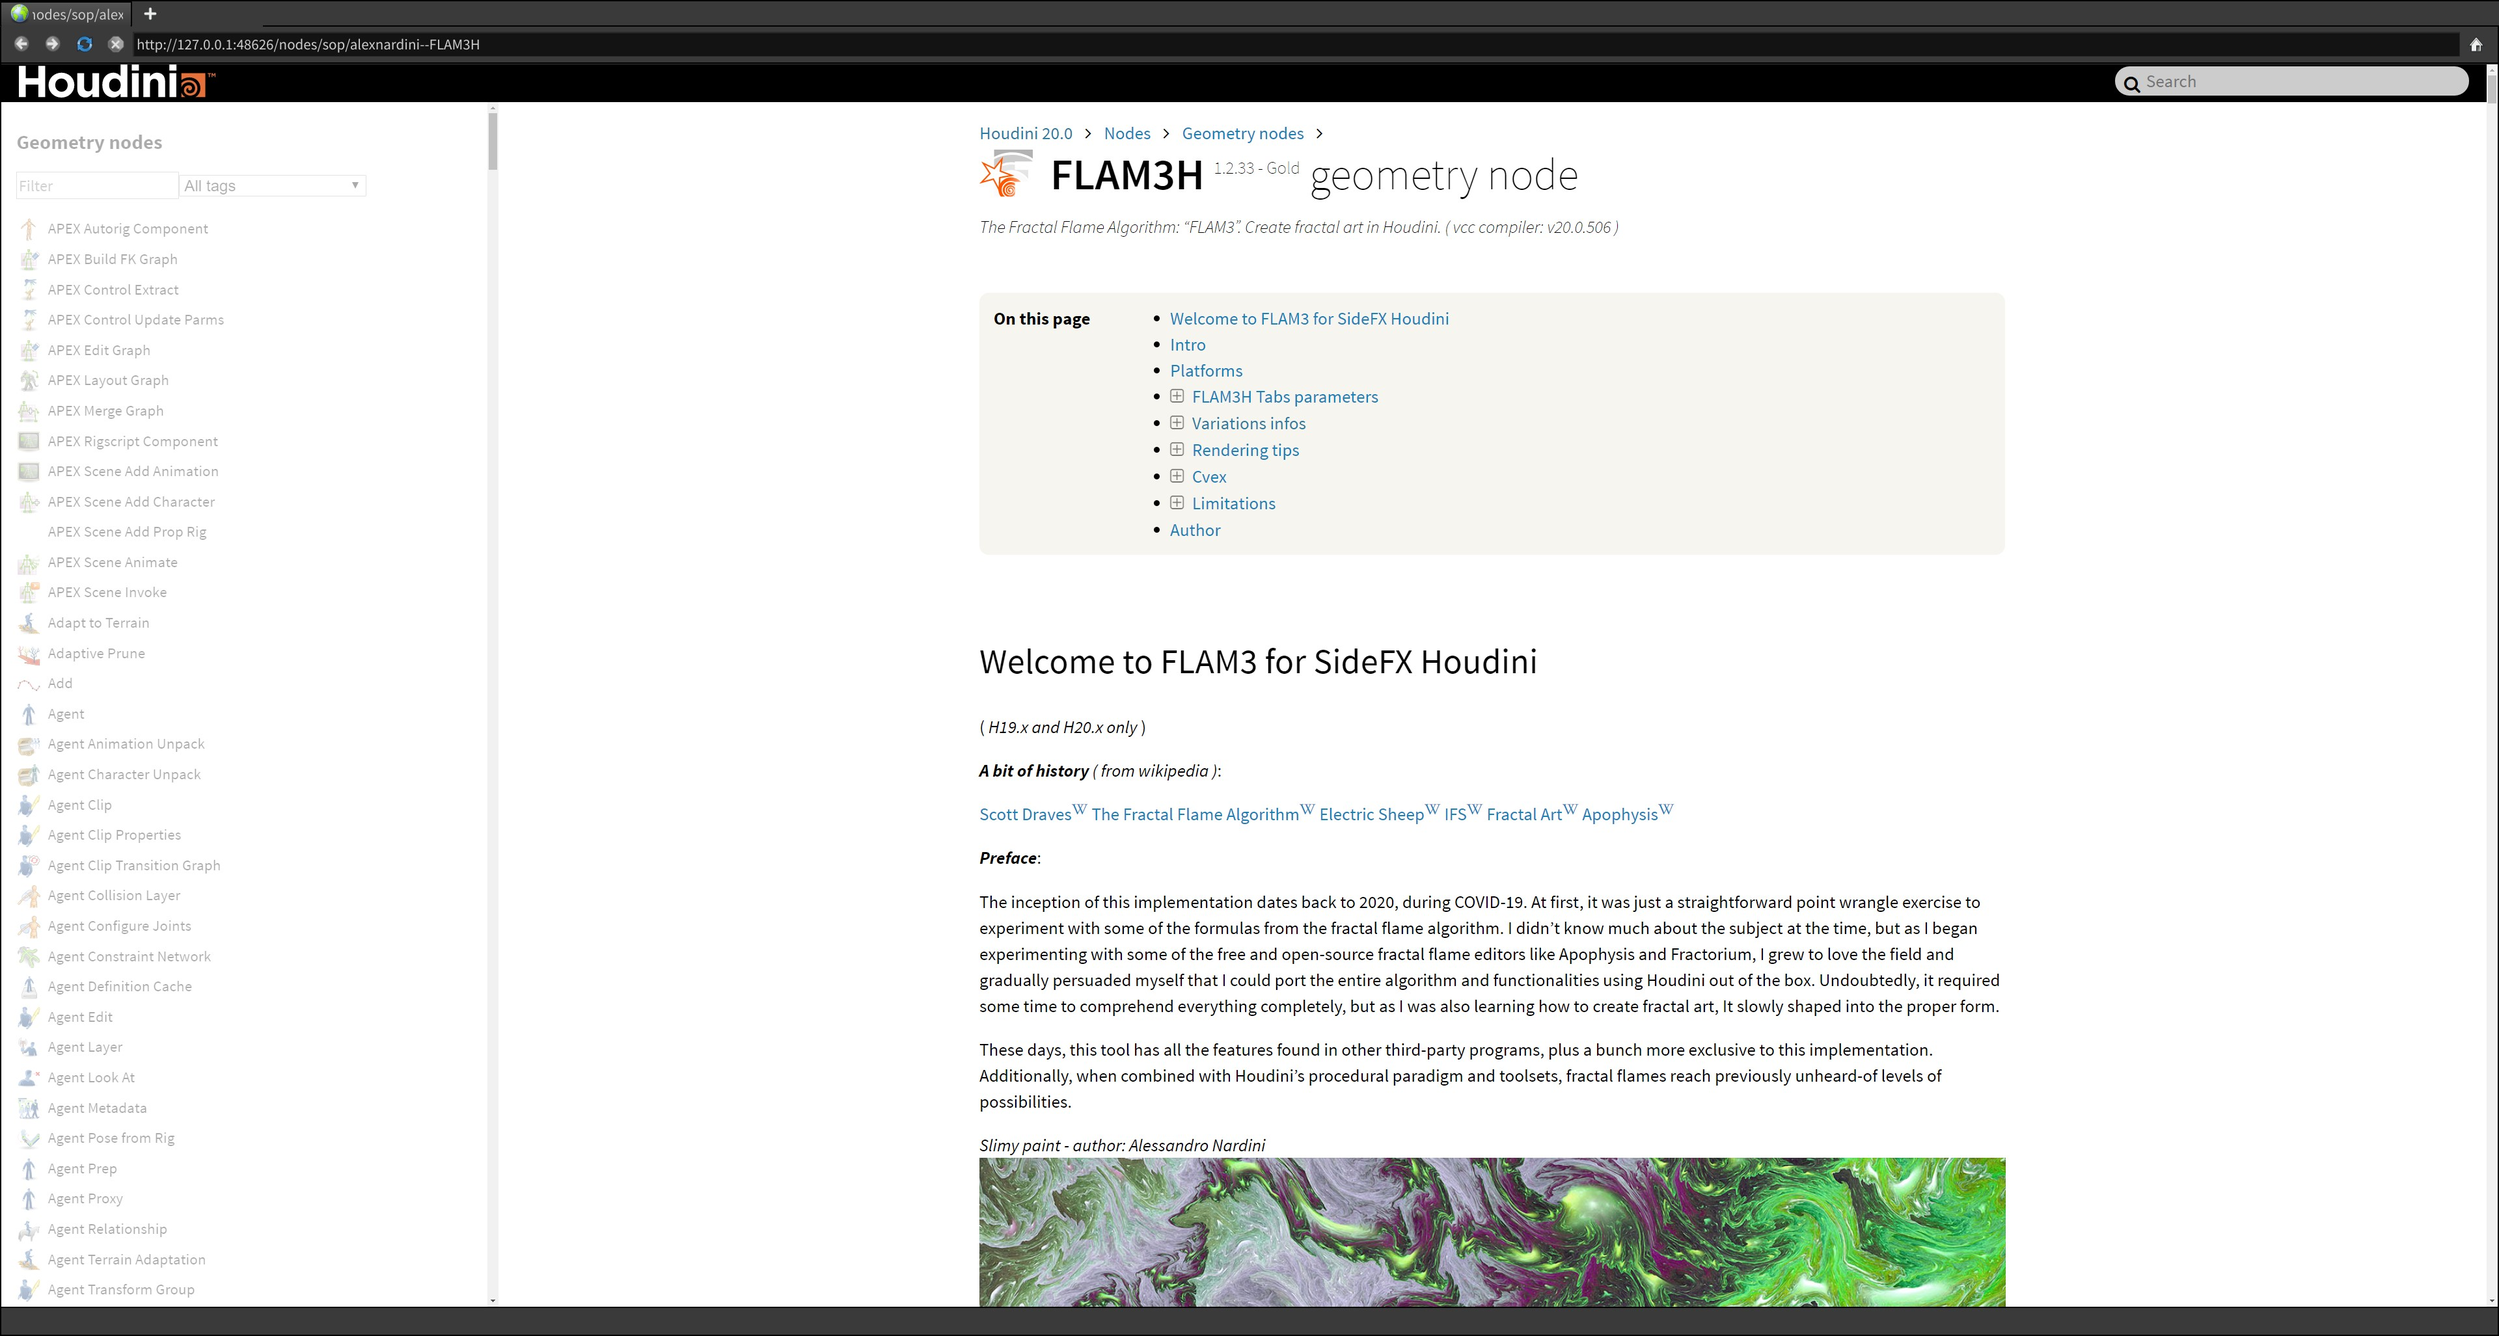
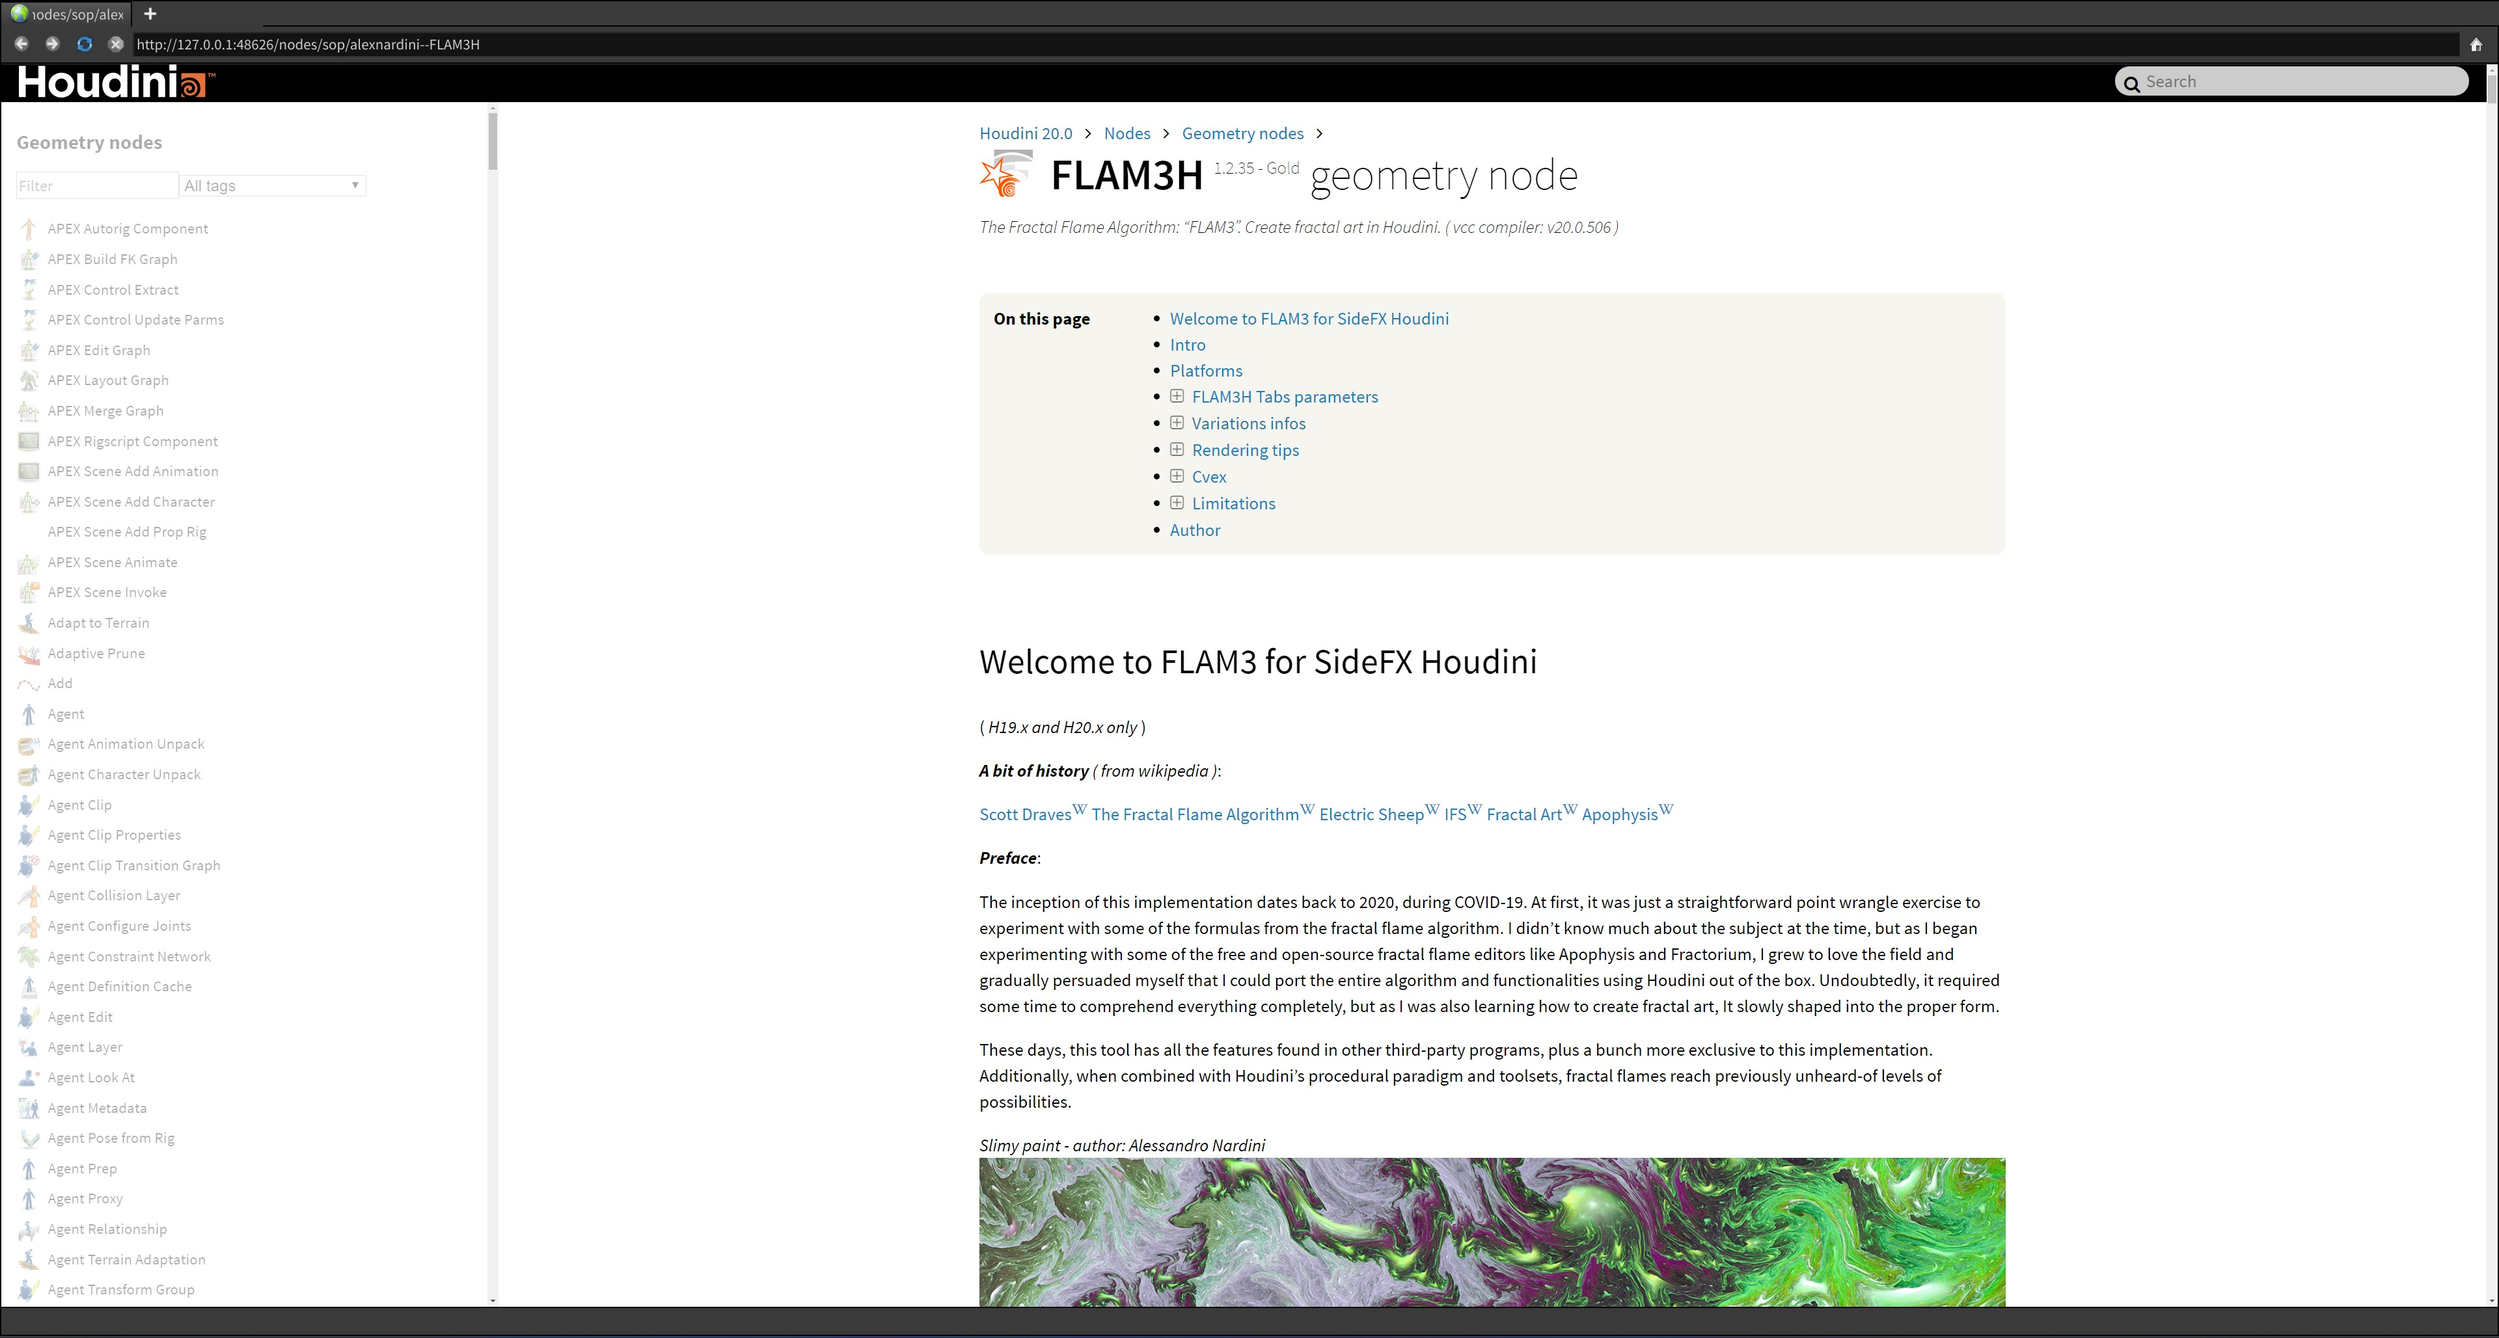
Updated

diff --git a/src/py/py_flam3.py b/src/py/py_flam3.py
@@ -77,7 +77,7 @@ out_flame_xforms_data(out_flame_utils)
 
 
 
-FLAM3H_VERSION = '1.2.33'
+FLAM3H_VERSION = '1.2.35'
 FLAM3H_VERSION_STATUS_BETA = " - Beta"
 FLAM3H_VERSION_STATUS_GOLD = " - Gold"
 
@@ -1615,7 +1615,7 @@ reset_PREFS(self, mode=0) -> None:
                 prm_sys.set(f'{len(apo.name)-1}')
                 # check if the selected Flame file is locked
                 if self.isLOCK(xml_checked):
-                    flame_lib_locked = f"flame lib file: LOCKED"
+                    flame_lib_locked = f"Flame lib file: LOCKED"
                     node.setParms({MSG_OUT: flame_lib_locked})
                 else:
                     node.setParms({MSG_OUT: ''})
@@ -1653,7 +1653,7 @@ reset_PREFS(self, mode=0) -> None:
                     prm.set('0')
                     # check if the selected palette file is locked
                     if self.isLOCK(json_path_checked):
-                        palette_lib_locked = f"palette lib file: LOCKED"
+                        palette_lib_locked = f"Palette lib file: LOCKED"
                         node.setParms({MSG_PALETTE: palette_lib_locked})
                     else:
                         node.setParms({MSG_PALETTE: ''})
@@ -6165,7 +6165,7 @@ class in_flame_iter_data(in_flame):
         self._opacity = self._in_flame__get_keyvalue(self._xforms, XML_XF_OPACITY) # type: ignore
         # custom to FLAM3H only
         self._sys_flam3h_rip = self._in_flame__get_flam3h_toggle(self._flam3h_sys_rip[self._idx]) # type: ignore
-        self._palette_flam3h_hsv = self._in_flame__get_palette_flam3h_hsv(self._idx) # type: ignore
+        self._cp_flam3h_hsv = self._in_flame__get_palette_flam3h_hsv(self._idx) # type: ignore
         self._mb_flam3h_mb_fps = self._in_flame__get_mb_flam3h_mb(self._idx, OUT_XML_FLMA3H_MB_FPS) # type: ignore
         self._mb_flam3h_mb_samples= self._in_flame__get_mb_flam3h_mb(self._idx, OUT_XML_FLMA3H_MB_SAMPLES) # type: ignore
         self._mb_flam3h_mb_shutter = self._in_flame__get_mb_flam3h_mb(self._idx, OUT_XML_FLMA3H_MB_SHUTTER) # type: ignore
@@ -6244,8 +6244,8 @@ class in_flame_iter_data(in_flame):
     # custom to FLAM3H only
     
     @property
-    def palette_flam3h_hsv(self):
-        return self._palette_flam3h_hsv
+    def cp_flam3h_hsv(self):
+        return self._cp_flam3h_hsv
     
     @property
     def mb_flam3h_fps(self):
@@ -7304,12 +7304,13 @@ reset_IN(self, mode=0) -> None:
 
 
     @staticmethod
-    def in_util_vars_flatten_unique_sorted(VARS_list: Union[list[str], list[list[str]]], func: Callable) -> list[str]:
+    def in_util_vars_flatten_unique_sorted(VARS_list: Union[list[str], list[list[str]]], func: Callable, capitalize=False) -> list[str]:
         """Return a flattened list of unique and sorted items without duplicates.
 
         Args:
             VARS_list (Union[list[str], list[list[str]]]): The data to flatten, remove duplicates and sort.
             func (Callable): Function to turn variation names from VAR to PRE or POST or none based on the function provided.
+            capitalize (bool): (default to: False) capitalize the variation's names if any are found.
 
         Returns:
             list[str]: Return a flattened list of unique and sorted items without duplicates.
@@ -7318,7 +7319,10 @@ reset_IN(self, mode=0) -> None:
         result = []
         [result.append(x) for x in flatten if x not in result]
         sort = sorted(result, key=lambda var: var)
-        return [func(x) for x in sort]
+        if not capitalize:
+            return [str(func(x)) for x in sort if x]
+        else:
+            return [str(func(x)).capitalize() for x in sort if x]
     
     
     @staticmethod
@@ -7753,10 +7757,10 @@ reset_IN(self, mode=0) -> None:
         if clipboard: cb =  " -> Clipboard"
         sw = f"Software: {apo_data.sw_version[preset_id]}{cb}"
         name = f"Name: {apo_data.name[preset_id]}"
-        iter_count = f"iterators count: {str(len(apo_data.xforms))}"
-        post = f"post affine: {post_bool_msg}"
-        opacity = f"opacity: {opacity_bool_msg}"
-        xaos = f"xaos: {xaos_bool_msg}"
+        iter_count = f"Iterators count: {str(len(apo_data.xforms))}"
+        post = f"Post affine: {post_bool_msg}"
+        opacity = f"Opacity: {opacity_bool_msg}"
+        xaos = f"Xaos: {xaos_bool_msg}"
         
         mb = nnl
         if flam3h_mb_bool:
@@ -7767,10 +7771,10 @@ reset_IN(self, mode=0) -> None:
         if ff_bool:
             ff_msg = f"FF: YES\nFF post affine: {ff_post_bool_msg}"
         else:
-            ff_msg = f"FF: NO"
+            ff_msg = f"FF: NO\n"
             
         if palette_bool:
-            if apo_data.palette_flam3h_hsv is not False:
+            if apo_data.cp_flam3h_hsv is not False:
                 # custom to FLAM3H only
                 palette_count_format = f"Palette count: {apo_data.palette[1]}, format: {apo_data.palette[2]} -> HSV"
             else:
@@ -7801,7 +7805,7 @@ reset_IN(self, mode=0) -> None:
         if pb_bool:
             vars_all += [["pre_blur"]] # + vars_keys_PRE + vars_keys_POST
             
-        result_sorted = self.in_util_vars_flatten_unique_sorted(vars_all, self.in_util_make_NULL) # type: ignore
+        result_sorted = self.in_util_vars_flatten_unique_sorted(vars_all, self.in_util_make_NULL, True) # type: ignore
         
         n = 5
         var_used_heading = "Variations used:"
@@ -7831,7 +7835,7 @@ reset_IN(self, mode=0) -> None:
             vars_keys_from_fractorium_post_FF = self.in_get_xforms_var_keys_PP(apo_data.finalxform, VARS_FRACTORIUM_DICT_POST, V_PRX_POST, exclude_keys)
         
         vars_keys_from_fractorium_all = vars_keys_from_fractorium + vars_keys_from_fractorium_pre + vars_keys_from_fractorium_post + vars_keys_from_fractorium_pre_FF + vars_keys_from_fractorium_FF + vars_keys_from_fractorium_post_FF # type: ignore
-        result_sorted_fractorium = self.in_util_vars_flatten_unique_sorted(vars_keys_from_fractorium_all, self.in_util_make_NULL)
+        result_sorted_fractorium = self.in_util_vars_flatten_unique_sorted(vars_keys_from_fractorium_all, self.in_util_make_NULL, True)
         
         # Compare and keep and build missing vars msg
         vars_missing = [x for x in result_sorted_fractorium if x not in result_sorted]
@@ -7846,7 +7850,7 @@ reset_IN(self, mode=0) -> None:
         
         flame_lib_locked = ''
         if flam3h_general_utils.isLOCK(in_path_checked):
-            flame_lib_locked = f"flame lib file: LOCKED"
+            flame_lib_locked = f"Flame lib file: LOCKED"
         
         # build full stats msg
         build = (   flame_lib_locked, nl, sw, nnl,
@@ -8302,8 +8306,8 @@ reset_IN(self, mode=0) -> None:
                 flam3h_general_utils(self.kwargs).reset_MB()
             
             # if CP HSV vals
-            if apo_data.palette_flam3h_hsv is not False:
-                node.setParms({CP_RAMP_HSV_VAL_NAME: apo_data.palette_flam3h_hsv}) # type: ignore
+            if apo_data.cp_flam3h_hsv is not False:
+                node.setParms({CP_RAMP_HSV_VAL_NAME: apo_data.cp_flam3h_hsv}) # type: ignore
             else:
             # CP HSV default vals
                 node.setParms({CP_RAMP_HSV_VAL_NAME: hou.Vector3((1.0, 1.0, 1.0))}) # type: ignore
@@ -8598,7 +8602,7 @@ __out_flame_data_flam3h_toggle(self, toggle: bool) -> Union[str, None]:
         self._flam3h_rip = self._node.parm(SYS_RIP).evalAsInt()
         self._flam3h_mb_do = self._node.parm(MB_DO).evalAsInt()
         self._flam3h_f3c = self._node.parm(PREFS_F3C).evalAsInt()
-        self._flam3h_palette_lookup_samples = self._node.parm(CP_RAMP_LOOKUP_SAMPLES).evalAsInt()
+        self._flam3h_cp_lookup_samples = self._node.parm(CP_RAMP_LOOKUP_SAMPLES).evalAsInt()
         
         
     @staticmethod
@@ -9146,8 +9150,8 @@ __out_flame_data_flam3h_toggle(self, toggle: bool) -> Union[str, None]:
         return self._flam3h_rip
     
     @property
-    def flam3h_palette_samples(self):
-        return self._flam3h_palette_lookup_samples
+    def flam3h_cp_samples(self):
+        return self._flam3h_cp_lookup_samples
 
 
 
@@ -9429,7 +9433,7 @@ __out_flame_data_flam3h_toggle(self, toggle: bool) -> Union[str, None]:
         return {OUT_XML_VERSION: f'{XML_APP_NAME}-{flam3h_general_utils.my_system()}-{FLAM3H_VERSION}',
                 XML_XF_NAME: f3p.flame_name,
                 OUT_XML_FLAM3H_SYS_RIP: f3p.flam3h_sys_rip, # custom to FLAM3H only
-                OUT_XML_FLAM3H_HSV: f3p.flam3h_palette_hsv, # custom to FLAM3H only
+                OUT_XML_FLAM3H_HSV: f3p.flam3h_cp_hsv, # custom to FLAM3H only
                 OUT_XML_FLMA3H_MB_FPS: f3p.flam3h_mb_fps, # custom to FLAM3H only
                 OUT_XML_FLMA3H_MB_SAMPLES: f3p.flam3h_mb_samples, # custom to FLAM3H only
                 OUT_XML_FLMA3H_MB_SHUTTER: f3p.flam3h_mb_shutter, # custom to FLAM3H only
@@ -10009,10 +10013,10 @@ __out_flame_data_flam3h_toggle(self, toggle: bool) -> Union[str, None]:
     
     # custom to FLAM3H only
     def __out_flame_palette_lookup_samples(self) -> Union[str, bool, None]:
-        if self._flam3h_palette_lookup_samples == 256:
+        if self._flam3h_cp_lookup_samples == 256:
             return False
         else:
-            return str(self._flam3h_palette_lookup_samples)
+            return str(self._flam3h_cp_lookup_samples)
 
 
 
@@ -10059,7 +10063,7 @@ class out_flame_render_properties(out_flame_utils):
         
         # custom to FLAM3H only
         self._flam3h_sys_rip = self._out_flame_utils__out_flame_data_flam3h_toggle(self._flam3h_rip) # type: ignore
-        self._flam3h_palette_hsv = self._out_flame_utils__out_flame_data_flam3h_hsv() # type: ignore
+        self._flam3h_cp_hsv = self._out_flame_utils__out_flame_data_flam3h_hsv() # type: ignore
         self._flam3h_mb_fps = self._out_flame_utils__out_flame_data_flam3h_mb_val(MB_FPS) # type: ignore
         self._flam3h_mb_samples = self._out_flame_utils__out_flame_data_flam3h_mb_val(MB_SAMPLES) # type: ignore
         self._flam3h_mb_shutter = self._out_flame_utils__out_flame_data_flam3h_mb_val(MB_SHUTTER) # type: ignore
@@ -10140,8 +10144,8 @@ class out_flame_render_properties(out_flame_utils):
         return self._flam3h_sys_rip
     
     @property
-    def flam3h_palette_hsv(self):
-        return self._flam3h_palette_hsv
+    def flam3h_cp_hsv(self):
+        return self._flam3h_cp_hsv
     
     @property
     def flam3h_mb_fps(self):

diff --git a/src/py/py_flam3_UI_PRM_map.py b/src/py/py_flam3_UI_PRM_map.py
@@ -32,7 +32,7 @@ flam3 = toolutils.createModuleFromSection("flam3", kwargs["type"], "py_flam3")
 """
 Inside: OTL->type_properties->Scripts->PreFirstCreate
 """
-FLAM3H_VERSION = '1.2.33 - Gold'
+FLAM3H_VERSION = '1.2.35 - Gold'
 
 def flam3h_first_time() -> None:
     hou_version = int(''.join(str(x) for x in hou.applicationVersion()[:1]))
@@ -117,16 +117,52 @@ hou.pwd().hdaModule().flam3.out_flame_utils(kwargs).out_auto_change_iter_num_to_
 # SYS Tab
 #######################################################
 
+# SYS DOC
 'parameter name     sys_help'
 'script type:       Callback Script'
 hou.pwd().hdaModule().flam3.flam3h_general_utils(kwargs).flam3h_display_help()
 
 
+# SYS FF
+'parameter name     doff_sysdisabled'
+'script type:       Callback Script'
+hou.pwd().hdaModule().flam3.flam3h_general_utils(kwargs).flam3h_toggle("doff")
+
+
+'parameter name     doff_sysenabled'
+'script type:       Callback Script'
+hou.pwd().hdaModule().flam3.flam3h_general_utils(kwargs).flam3h_toggle("doff")
+
+
+# SYS RIP
+'parameter name     rip_disabled'
+'script type:       Callback Script'
+hou.pwd().hdaModule().flam3.flam3h_general_utils(kwargs).flam3h_toggle("rip")
+
+
+'parameter name     rip_enabled'
+'script type:       Callback Script'
+hou.pwd().hdaModule().flam3.flam3h_general_utils(kwargs).flam3h_toggle("rip")
+
+
+# SYS F3C
+'parameter name     f3c_chaotica'
+'script type:       Callback Script'
+hou.pwd().hdaModule().flam3.flam3h_general_utils(kwargs).flam3h_toggle("f3c")
+
+
+'parameter name     f3c_apophysis'
+'script type:       Callback Script'
+hou.pwd().hdaModule().flam3.flam3h_general_utils(kwargs).flam3h_toggle("f3c")
+
+
+# SYS SENSOR
 'parameter name     sys_out_sensorviz'
 'script type:       Callback Script'
 hou.pwd().hdaModule().flam3.flam3h_general_utils(kwargs).flam3h_outsensor_toggle()
 
 
+# SYS TAG
 'parameter name     sys_tag_off'
 'script type:       Callback Script'
 hou.pwd().hdaModule().flam3.flam3h_general_utils(kwargs).flam3h_toggle()
@@ -137,11 +173,13 @@ hou.pwd().hdaModule().flam3.flam3h_general_utils(kwargs).flam3h_toggle()
 hou.pwd().hdaModule().flam3.flam3h_general_utils(kwargs).flam3h_sys_tag()
 
 
+# SYS SIERPINSKY
 'parameter name:    loaddef'
 'script type:       Callback Script'
 hou.pwd().hdaModule().flam3.flam3h_iterator_utils(kwargs).flam3h_default()
 
 
+# SYS SENSOR
 'parameter name:    frameview'
 'script type:       Callback Script'
 hou.pwd().hdaModule().flam3.flam3h_general_utils(kwargs).util_viewport_bbox_frame()
@@ -150,6 +188,15 @@ hou.pwd().hdaModule().flam3.flam3h_general_utils(kwargs).util_viewport_bbox_fram
 'parameter name:    frameviewsensor'
 'script type:       Callback Script'
 hou.pwd().hdaModule().flam3.flam3h_general_utils(kwargs).util_viewport_bbox_frame()
+
+
+# SYS CP
+'parameter name:    sys_palettepresets_disabled'
+'script type:       Menu Script'
+menu = kwargs['node'].hdaModule().flam3.flam3h_palette_utils(kwargs).menu_ramp_presets()
+return menu
+'script type:       Action Script'
+kwargs['node'].hdaModule().flam3.flam3h_palette_utils(kwargs).json_to_flam3h_ramp()
 
 
 'parameter name:    sys_palettepresets'
@@ -162,6 +209,12 @@ return menu
 kwargs['node'].hdaModule().flam3.flam3h_palette_utils(kwargs).json_to_flam3h_ramp()
 
 
+# SYS IN
+'parameter name:    sys_inpresets_disabled'
+'script type:       Action Button'
+n = None
+
+
 'parameter name:    sys_inpresets'
 'script type:       Callback Script'
 hou.pwd().hdaModule().flam3.in_flame_utils(kwargs).in_to_flam3h_sys()
@@ -170,6 +223,12 @@ menu = kwargs['node'].hdaModule().flam3.in_flame_utils(kwargs).menu_in_presets()
 return menu
 'script type:       Action Button'
 kwargs['node'].hdaModule().flam3.in_flame_utils(kwargs).in_to_flam3h()
+
+
+# SYS OUT
+'parameter name:    sys_outpresets_disabled'
+'script type:       Action Button'
+n = None
 
 
 'parameter name:    sys_outpresets'
